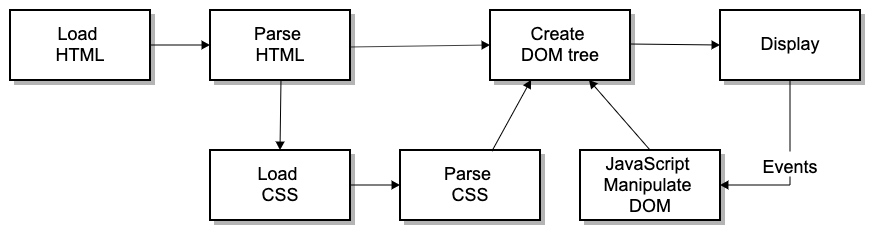
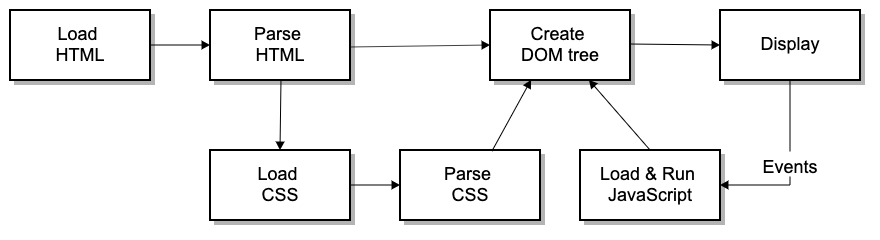
added rendering_js and java thread example

Changed region(s): [[0.675, 0.6417, 0.7977, 0.9042]]

diff --git a/index.html b/index.html
@@ -472,7 +472,7 @@
       }
 
       .width-full {
-         width: 98% !important;
+         width: 95% !important;
       }
       
       .bottom {
@@ -1624,9 +1624,9 @@ myHeading.onclick = function() {
             <h3>HTML Syntax </h3>
             <p>How many syntactical rules?</p>
 
-               <span data-class="image width-three-quarter" data-image="HTML syntax" data-local-src="assets/grumpy-cat-small.png" data-cdn-src="https://cdn.glitch.com/3943c32b-ac0d-4285-afbf-c67ee5a851ca%2Fgrumpy-cat-small.png?1548542503944"></span>
+               <span data-class="image width-full" data-image="HTML syntax" data-local-src="assets/grumpy-cat-small.png" data-cdn-src="https://cdn.glitch.com/3943c32b-ac0d-4285-afbf-c67ee5a851ca%2Fgrumpy-cat-small.png?1548542503944"></span>
 
-               <span data-class="image width-three-quarter" data-image="HTML syntax" data-local-src="assets/grumpy-cat-attribute-small.png" data-cdn-src="https://cdn.glitch.com/3943c32b-ac0d-4285-afbf-c67ee5a851ca%2Fgrumpy-cat-attribute-small.png?1548542668657"></span>
+               <span data-class="image width-full" data-image="HTML syntax" data-local-src="assets/grumpy-cat-attribute-small.png" data-cdn-src="https://cdn.glitch.com/3943c32b-ac0d-4285-afbf-c67ee5a851ca%2Fgrumpy-cat-attribute-small.png?1548542668657"></span>
 
          </div>
          <div class="slide-article panel">
@@ -1844,7 +1844,7 @@ punchline {
             <details class="panel">
                <summary>HTML &#8594; DOM &#8592; CSS</summary>
                <div class="slide-article">
-                     <span data-class="image width-three-quarter" data-image="rendering html and css" data-local-src="assets/rendering.svg.png" data-cdn-src="https://cdn.glitch.com/3943c32b-ac0d-4285-afbf-c67ee5a851ca%2Frendering.svg?1549284189095"></span>
+                     <span data-class="image width-full" data-image="rendering html and css" data-local-src="assets/rendering.svg.png" data-cdn-src="https://cdn.glitch.com/3943c32b-ac0d-4285-afbf-c67ee5a851ca%2Frendering.svg?1549284189095"></span>
                   <details>
                      <summary>Selected DOM Object properties set with <em>CSS</em></summary>
                      <pre class="slide-small"><code lang="css" class="prettyprint">&lt;p&gt;
@@ -1864,7 +1864,7 @@ punchline {
                <summary>Rules &amp; Specificity</summary>
                <div class="slide-article panel">
                   <div class="asset panel center">
-                     <img src="https://cdn.glitch.com/3943c32b-ac0d-4285-afbf-c67ee5a851ca%2Fcss-rule.gif?1549314855569" alt="CSS rule syntax" class="width-three-quarter">
+                     <img src="https://cdn.glitch.com/3943c32b-ac0d-4285-afbf-c67ee5a851ca%2Fcss-rule.gif?1549314855569" alt="CSS rule syntax" class="width-full">
                   </div>
                   <ul>
                      <li>
@@ -1909,15 +1909,14 @@ a {
    font-weight: bold;
 }
 
-<span class="slide-small">/* We want visited links to be the same color
-   as non visited links */</span>
+<span class="slide-small">/* declare visited links to be the same 
+   color as non visited links */</span>
 a:visited {
    color: blue;
 }
 
-<span class="slide-small">/* We highlight the link when it is
-   hovered over (mouse over), activated (mouse down)
-   or focused (keyboard) */</span>
+<span class="slide-small">/* Highlight the link when it is hovered over (mouse over), 
+   activated (mouse down) or focused (keyboard) */</span>
 a:hover,
 a:active,
 a:focus {
@@ -2047,12 +2046,12 @@ a:focus {
                            <details>
                               <summary>Example MIME types</summary>
                               <ul class="slide-small">
-                                 <li><code>text/html, text/css, text/javascript</code></li>
-                                 <li><code>image/jpeg, image/png, image/svg+xml</code></li>
-                                 <li><code>audio/mpeg, audio/vorbis</code></li>
-                                 <li><code>font/woff, font/ttf</code></li>
-                                 <li><code>video/mp4, video/ogg</code></li>
-                                 <li><code>multipart/form-data</code></li>
+                                 <li><code class="prettyprint">text/html, text/css, text/javascript</code></li>
+                                 <li><code class="prettyprint">image/jpeg, image/png, image/svg+xml</code></li>
+                                 <li><code class="prettyprint">audio/mpeg, audio/vorbis</code></li>
+                                 <li><code class="prettyprint">font/woff, font/ttf</code></li>
+                                 <li><code class="prettyprint">video/mp4, video/ogg</code></li>
+                                 <li><code class="prettyprint">multipart/form-data</code></li>
                               </ul>
                            </details>
                         </li>
@@ -2065,7 +2064,7 @@ a:focus {
 
                <li class="panel">
                   <details>
-                     <summary>It&apos;s all in <code>bits</code>! Text, <code>Image, Audio, Video</code></summary>
+                     <summary>It&apos;s all in <code class="prettyprint">bits</code>! Text, <code class="prettyprint">Image, Audio, Video</code></summary>
                      <ul>
                         <li>
                            Text &dash; unicode
@@ -2090,7 +2089,7 @@ a:focus {
                                     <span class="slide-small">(8kHz human speech, 96kHz high resolution audio)</span>
                                  </li>
                                  <li>
-                                    Container formats: <code>WebM, MP4, Ogg</code>
+                                    Container formats: <code class="prettyprint">WebM, MP4, Ogg</code>
                                     <a target="_blank" href="https://developer.mozilla.org/en-US/docs/Learn/HTML/Multimedia_and_embedding/Video_and_audio_content">
                                        <span data-class="image width-full" data-image="Diagram conceptualizing the contents of a media file at the track level." data-local-src="assets/star.svg" data-cdn-src="https://cdn.glitch.com/3943c32b-ac0d-4285-afbf-c67ee5a851ca%2FContainersAndTracks.svg?v=1574026084854"></span>  
                                     </a>
@@ -2104,7 +2103,7 @@ a:focus {
                </li>
                <li class="panel">
                   <details>
-                     <summary>HTML5 <code>audio</code> and <code>video</code> elements</summary>
+                     <summary>HTML5 <code class="prettyprint">audio</code> and <code class="prettyprint">video</code> elements</summary>
  
                      <pre class="slide-small"><code class="prettyprint">&lt;audio controls>
    &lt;source src="bethoven.mp3" /&gt;
@@ -2129,7 +2128,7 @@ a:focus {
 
          <details class="panel">
             <summary>(HTML, CSS) &#8594; DOM &#8592; JavaScript</summary>
-                  <span data-class="image width-full" data-image="rendering html and css" data-local-src="assets/rendering_js.png" data-cdn-src="https://cdn.glitch.com/3943c32b-ac0d-4285-afbf-c67ee5a851ca%2Frendering_js.png?v=1574547456676"></span>
+                  <span data-class="image width-full" data-image="rendering html and css" data-local-src="assets/rendering_js.png" data-cdn-src="https://cdn.glitch.com/3943c32b-ac0d-4285-afbf-c67ee5a851ca%2Frendering_js.png?v=1574593474385"></span>
             <details>
                <summary>Selected DOM Object properties set with <em>CSS</em></summary>
                <pre class="slide-small"><code class="prettyprint">&lt;p&gt;CSS is declarative&lt;/p&gt;</code></pre>
@@ -2286,12 +2285,12 @@ myParagraph.style.backgoroundColor = "red";
                      <details>
                         <summary><small>Example MIME types</small></summary>
                         <ul class="slide-small">
-                           <li><code>text/html, text/css, text/javascript</code></li>
-                           <li><code>image/jpeg, image/png, image/svg+xml</code></li>
-                           <li><code>audio/mpeg, audio/vorbis</code></li>
-                           <li><code>font/woff, font/ttf</code></li>
-                           <li><code>video/mp4, video/ogg</code></li>
-                           <li><code>multipart/form-data</code></li>
+                           <li><code class="prettyprint">text/html, text/css, text/javascript</code></li>
+                           <li><code class="prettyprint">image/jpeg, image/png, image/svg+xml</code></li>
+                           <li><code class="prettyprint">audio/mpeg, audio/vorbis</code></li>
+                           <li><code class="prettyprint">font/woff, font/ttf</code></li>
+                           <li><code class="prettyprint">video/mp4, video/ogg</code></li>
+                           <li><code class="prettyprint">multipart/form-data</code></li>
                         </ul>
                      </details>
                   </li>
@@ -4704,7 +4703,7 @@ public void onSaveInstanceState(Bundle outState) {
                            </ul>
 
                            <div class="asset">
-                              <span data-class="image width-three-quarter" data-image="Adroid lifecycle states observer pattern collaboration diagram" data-local-src="assets/lifecycle-states.png" data-cdn-src="https://cdn.glitch.com/3943c32b-ac0d-4285-afbf-c67ee5a851ca%2Flifecycle-states.png?1549812267626"></span>
+                              <span data-class="image width-full" data-image="Adroid lifecycle states observer pattern collaboration diagram" data-local-src="assets/lifecycle-states.png" data-cdn-src="https://cdn.glitch.com/3943c32b-ac0d-4285-afbf-c67ee5a851ca%2Flifecycle-states.png?1549812267626"></span>
                            </div>
                         </details>
 
@@ -4801,7 +4800,7 @@ intent.putExtra( "EX2","example value" );</code></pre>
             <div class="slide-article panel">
 
                <div class="width-full">
-                  <span data-class="image width-three-quarter" data-image="Android todo detail app uml sequence diagram" data-local-src="assets/todo_uml_sequence.png" data-cdn-src="https://cdn.glitch.com/3943c32b-ac0d-4285-afbf-c67ee5a851ca%2Ftodo_uml_sequence.png?1549406509581"></span>
+                  <span data-class="image width-full" data-image="Android todo detail app uml sequence diagram" data-local-src="assets/todo_uml_sequence.png" data-cdn-src="https://cdn.glitch.com/3943c32b-ac0d-4285-afbf-c67ee5a851ca%2Ftodo_uml_sequence.png?1549406509581"></span>
                </div>
             </div>
          </details>
@@ -5148,7 +5147,7 @@ android:onClick = "onCheckboxIsCompleteClick"</code></pre>
                <li class="list-style-none left-margin-none panel">
                   <details>
                      <summary>Todo Controller &amp; Views with fragments</summary>
-                     <p class="center"><img src="https://cdn.glitch.com/3943c32b-ac0d-4285-afbf-c67ee5a851ca%2Ftodo_uml_object_mvc.png?1553127911311" alt="Todo mvc object diagram" class="width-three-quarter"></p>
+                     <p class="center"><img src="https://cdn.glitch.com/3943c32b-ac0d-4285-afbf-c67ee5a851ca%2Ftodo_uml_object_mvc.png?1553127911311" alt="Todo mvc object diagram" class="width-full"></p>
                      <ul>
                         <li>
                            An Activity's view is a container <code class="prettyprint">FrameLayout</code> and remains the same throughout the lifecycle

diff --git a/java/ThreadDemo/ThreadDemo.java b/java/ThreadDemo/ThreadDemo.java
@@ -1,0 +1,50 @@
+public class ThreadDemo {
+   
+   public static void main(String args[]) {
+      
+      System.out.println("Hello (on a thread) World (on another thread)!");
+   
+      Runnable objHello = new Runnable() {
+         /* annoymous class implementing Runnable interface run() 
+            method passed to Runnable */
+         public void run() {
+            for(int i=1; i<=5; i++) {
+               System.out.println("Hello ");
+               /* do some nice processing! */
+               try { Thread.sleep(1000); } catch(Exception e){}
+            }
+         }                  
+      };
+      
+      Runnable objWorld = new Runnable() {
+         /* annoymous class with run() method passed to Runnable */
+         public void run() {
+            for(int i=1; i<=5; i++) {
+               System.out.println("World");
+               try { Thread.sleep(3000); } catch(Exception e){}
+            }
+         }                  
+      };
+      
+      Thread threadHello = new Thread(objHello);
+      Thread threadWorld = new Thread(objWorld);
+      
+      threadHello.start();
+      try { Thread.sleep(1000); } catch(Exception e){}
+      threadWorld.start();
+      
+//      System.out.println(threadHello.isAlive());
+//      try { threadHello.sleep(1000); } catch(Exception e){}
+      
+      /* .join will force the calling thread to wait until it complete */
+      try { threadHello.join(); } catch(Exception e){}
+      try { threadWorld.join(); } catch(Exception e){}
+      
+      /* check if method is alive after join */
+      System.out.println(threadHello.getName() + threadHello.isAlive());
+      System.out.println(threadWorld.getName() +  threadWorld.isAlive());
+      
+      System.out.println("Time for poetry");
+      
+   }
+}

diff --git a/java/SyncDemo/SyncDemo.java b/java/SyncDemo/SyncDemo.java
@@ -1,0 +1,57 @@
+class DoWork {
+   
+   int count;
+ 
+   // needs to be synchronized and made thread safe
+   public void increment() {
+      count++;
+   }
+}
+
+public class SyncDemo {
+   
+   public static void main(String args[]) {
+      
+      System.out.println("Synchronised value from both Hello and World threads");
+      
+      DoWork doWork = new DoWork();
+   
+      Runnable objHello = new Runnable() {
+         
+         public void run() {
+            
+            for(int i=1; i<=500; i++) {
+               doWork.increment();
+            }
+            
+            System.out.println( doWork.count + " Hello ");
+  
+         }                  
+      };
+      
+      Runnable objWorld = new Runnable() {
+
+         public void run() {
+            
+            for(int i=1; i<=1000; i++) {
+               doWork.increment();
+            }
+            
+            System.out.println( doWork.count + " World ");           
+         }                  
+      };
+      
+      Thread threadHello = new Thread(objHello);
+      Thread threadWorld = new Thread(objWorld);
+      
+      threadHello.start();
+      threadWorld.start();
+      
+      /* .join will force the calling thread to wait until it complete */
+      try { threadHello.join(); } catch(Exception e){}
+      try { threadWorld.join(); } catch(Exception e){}
+      
+      System.out.println(doWork.count + " reminders for poetry");
+      
+   }
+}

diff --git a/java/ThreadCommDemo/SyncDemo.java b/java/ThreadCommDemo/SyncDemo.java
@@ -1,0 +1,57 @@
+class DoWork {
+   
+   int count;
+ 
+   // needs to be synchronized and made thread safe
+   public void increment() {
+      count++;
+   }
+}
+
+public class SyncDemo {
+   
+   public static void main(String args[]) {
+      
+      System.out.println("Synchronised value from both Hello and World threads");
+      
+      DoWork doWork = new DoWork();
+   
+      Runnable objHello = new Runnable() {
+         
+         public void run() {
+            
+            for(int i=1; i<=500; i++) {
+               doWork.increment();
+            }
+            
+            System.out.println( doWork.count + " Hello ");
+  
+         }                  
+      };
+      
+      Runnable objWorld = new Runnable() {
+
+         public void run() {
+            
+            for(int i=1; i<=1000; i++) {
+               doWork.increment();
+            }
+            
+            System.out.println( doWork.count + " World ");           
+         }                  
+      };
+      
+      Thread threadHello = new Thread(objHello);
+      Thread threadWorld = new Thread(objWorld);
+      
+      threadHello.start();
+      threadWorld.start();
+      
+      /* .join will force the calling thread to wait until it complete */
+      try { threadHello.join(); } catch(Exception e){}
+      try { threadWorld.join(); } catch(Exception e){}
+      
+      System.out.println(doWork.count + " reminders for poetry");
+      
+   }
+}
